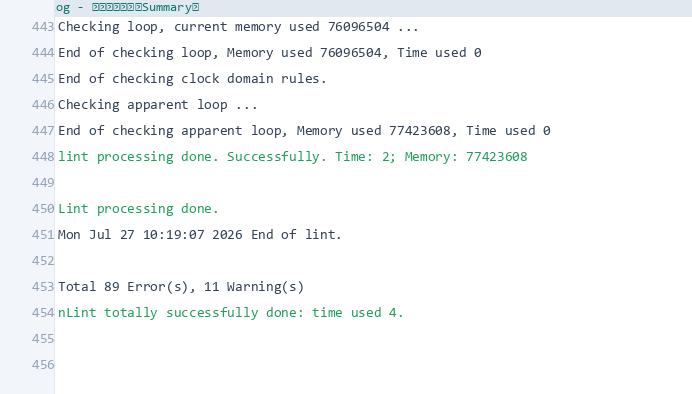
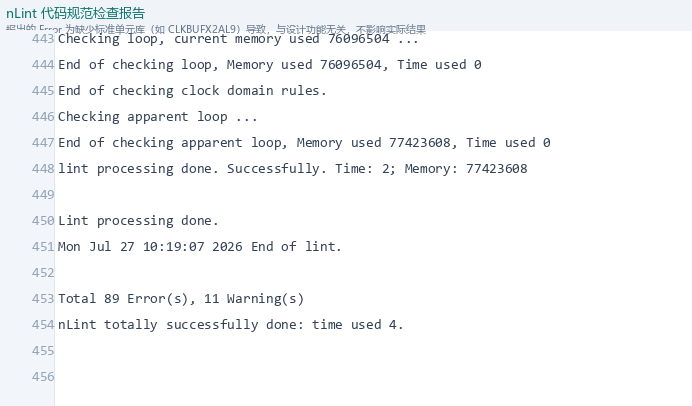
docs: RTL 检查/综合页新增 DC QoR、CKF、nLint 报告截图

diff --git a/synthesis-integration-flow-guide/rtl-check.html b/synthesis-integration-flow-guide/rtl-check.html
@@ -381,6 +381,8 @@ KEY: 通过 `bsub` 提交时必须带 batch 参数，即 `bsub -Ip run_ckf 1`。
 
 结果处理规则：所有 Error 必须清零；Warning 需逐条人工确认，仅确认无逻辑风险的正常告警才可放行。
 
+![ckf.rpt 实例（Floating / Latch 空 = 通过）](./image/36_ckf_rpt.png)
+
 ## 2. nLint
 
 ```bash
@@ -397,6 +399,10 @@ run_nlint
 - `no_check_module.f` 可排除不需要检查的模块
 - 确认可接受的 error 后，填入公共 waive list：`$PROJECT/SYNTHESIS/common/tcl_dir/nlint/nlint_waive.list`
 - 加入 waive list（白名单）前必须逐条确认确实无风险；两个工具重复报的已知非风险问题可加入 waive 文件，下次不再报
+
+![nlint.log 实例（Summary）](./image/37_nlint_rpt.png)
+
+NOTE: nLint 报出的 Error 多为缺少标准单元库（如 `CLKBUFX2AL9`）导致（Compilation & Elaboration 阶段），属于库文件缺失、与设计功能无关，不影响实际结果；确认非 RTL 逻辑问题后可 waive。
 
 NOTE: nLint 和 CKF 建议在综合前完成，以显著减少后续综合阶段的 RTL 问题。正确顺序：CKF + nLint 一起跑 → 确认无语法错误 → 才能跑综合。
 

diff --git a/synthesis-integration-flow-guide/synthesis-upf.html b/synthesis-integration-flow-guide/synthesis-upf.html
@@ -417,6 +417,8 @@ run_dc
   - timing slack ≥ 0（signoff 版本必须 slack &gt; 0）
 - constraint coverage：必须查看 unconstrained paths report，确认哪些路径没有被约束到
 
+![DC QoR 综合报告实例（slack ≥ 0、violating paths = 0 = 综合通过）](./image/35_dc_qor.png)
+
 WARNING: DC 综合完成后必须确认没有未收敛的 timing violation——DC 修不下去时会自动放弃，此时面积数据是假的，给到 APR 的面积不准，交付前必须清零 violation。
 
 margin 经验值：综合时序 margin 一般按 0.8 把握（曾尝试过 0.6），原则是"对自己紧一点、对后端松一点"，留太多或太少都未必好。
